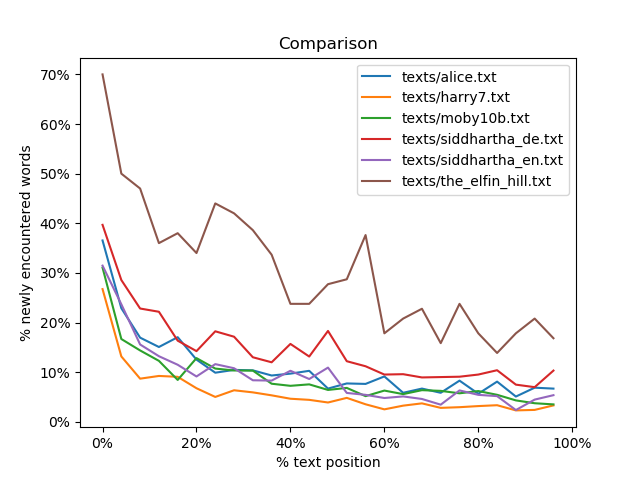
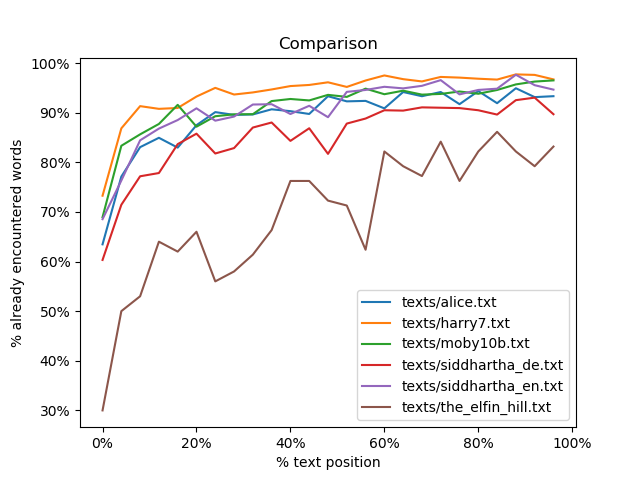
changed comparison graph to show ease throughout

diff --git a/idionalysis.py b/idionalysis.py
@@ -92,11 +92,15 @@ class Analysis:
             start += length
         return chunks
 
-    def graph(self, chunks):
+    def graph_new(self, chunks):
         ''' return concentration of initial occurences of vocabulary in each chunk '''
         chunks = self.divide(chunks)
-        #return list(map(lambda chunk: chunk.unique / self.unique, chunks))
         return list(map(lambda chunk: chunk.unique / chunk.length, chunks))
+
+    def graph_repeats(self, chunks):
+        ''' return how many words are non new encounters in each segment '''
+        chunks = self.divide(chunks)
+        return list(map(lambda chunk: chunk.repeats / chunk.length, chunks))
 
     @property
     def length(self):
@@ -148,30 +152,30 @@ class Analysis:
         top = ', '.join(self.top)
         bottom = ', '.join(self.bottom)
         lines = list()
-        lines.append(f'total words:                 {self.length}')
-        lines.append(f'unique words:                {self.unique}')
-        lines.append(f'unique / total:              {prettify(self.ratio)}')
-        lines.append(f'singly occuring words:       {self.singles}')
-        lines.append(f'singly / unique:             {prettify(self.singles / self.unique)}')
-        lines.append(f'top 5:                       {top}')
-        lines.append(f'bottom 5:                    {bottom}')
+        lines.append(f'total words:             {self.length}')
+        lines.append(f'unique words:            {self.unique}')
+        lines.append(f'unique / total:          {prettify(self.ratio)}')
+        lines.append(f'singly occuring words:   {self.singles}')
+        lines.append(f'singly / unique:         {prettify(self.singles / self.unique)}')
+        lines.append(f'top 5:                   {top}')
+        lines.append(f'bottom 5:                {bottom}')
         for bins in range(2, GRAPH_BINS_MAX + 1):
-            graph = self.graph(bins)
+            graph = self.graph_new(bins)
             graph_str = ' + '.join(map(prettify, graph))
-            lines.append(f'initial occurence breakdown: {graph_str}')
+            lines.append(f'new encounter breakdown: {graph_str}')
         return '\n'.join(lines)
 
 def graph(name, analysis):
     ''' display the analysis visually '''
     # the main graph
     plt.figure('Idionalysis')
-    plt.plot(analysis.graph(GRAPH_BINS_VISUAL), label=name)
+    plt.plot(analysis.graph_repeats(GRAPH_BINS_VISUAL), label=name)
     # the local graph
     plt.figure(name)
     plt.title(name)
     plt.xlabel('% text position')
     plt.ylabel('% newly encountered words')
-    plt.bar(range(0, GRAPH_BINS_VISUAL), analysis.graph(GRAPH_BINS_VISUAL), align='edge')
+    plt.bar(range(0, GRAPH_BINS_VISUAL), analysis.graph_new(GRAPH_BINS_VISUAL), align='edge')
     # and stats
     lines = list()
     lines.append(f'total words: ')
@@ -224,7 +228,7 @@ def bulk_analyse(filenames):
         plt.figure('Idionalysis')
         plt.title('Comparison')
         plt.xlabel('% text position')
-        plt.ylabel('% newly encountered words')
+        plt.ylabel('% already encountered words')
     # first get each individual analyses
     analyses = list(map(analyse_file, filenames))
     # and print each result
